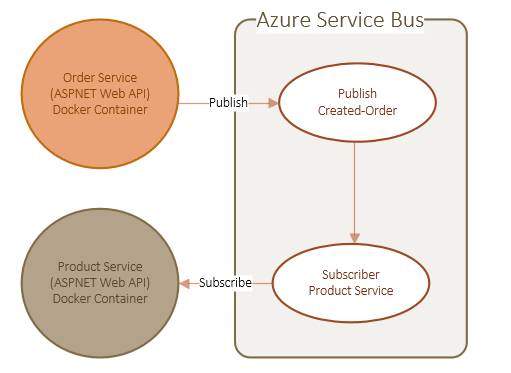
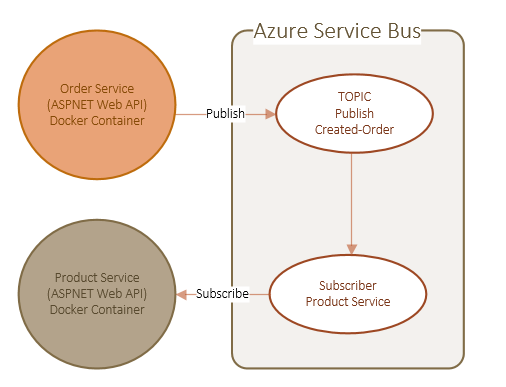
added messaging

diff --git a/docs/_site/index.html b/docs/_site/index.html
@@ -343,9 +343,21 @@
 
 <h3 id="communication-between-api-services">Communication Between API Services</h3>
 
-<p>API’s can communicate with each other using http or messaging. The demo application uses Azure Sevice Bus messaging services for communication.</p>
+<p>APIs can communicate with each other using REST or asynchronous messaging. The demo application uses Azure Service Bus messaging services for communication. The following example will illustrate the concept of messaging.</p>
 
-<p><img src="https://raw.githubusercontent.com/rcl-microservices-aks/documentation/master/images/intro/api-auth.PNG" alt="placeholder" title="Image" /></p>
+<p>The Product Service tracks the inventory of items with an ‘inStock’ field in the database. Each time an order is created by the Order Service, the Product Service will reduce the ‘inStock’ value of the product by one. So if there are 1000 pencils in stock, and an order is created for a pencil, the ‘inStock’ value for pencils is reduced to 999.</p>
+
+<p>The Order Service can send a request directly to the Product Service via REST to update the ‘inStock’ value of the product in the database. However, this will create a dependency between the Order Service and the Product Service. A better approach would be to use a broker messaging service to accomplish this communication.</p>
+
+<p>We can use ‘Topics’ in Azure Service Bus to create a Publish/Subscribe messaging service. The Order Service will publish a message to a Topic called ‘Created-Order’ each time an order is created. The message will be a simple JSON string containing the product id and other fields related to the order. Now, any service can subscribe to this Topic. The Product Service will subscribe to the Topic, and each time an order is created, the JSON string message will be transmitted to the Product Service asynchronously. The Product Service will then use the product id field in the JSON to find the product that was ordered and then reduce the ‘inStock’ value of the product by one.</p>
+
+<p>You will observe that the Order Service does not know anything about the Product Service as it is only aware of Service Bus. Similarly, the Product Service is only aware of the Service Bus and not the Order Service. In this way, both services are completely de-coupled.</p>
+
+<p>This approach also makes our application extensible. Say we now have a Shipping Service. The shipping service can subscribe to the ‘Created-Order’ Topic, and each time a new order is created it can send out an instruction to have the order shipped to a customer address.</p>
+
+<p>Messaging also adds reliability to the application. For instance, if the Product Service is down, the message will remain in the Topic queue until the Product Service is back up again to consume it.</p>
+
+<p><img src="https://raw.githubusercontent.com/rcl-microservices-aks/documentation/master/images/intro/messaging.PNG" alt="placeholder" title="Image" /></p>
 
 
 </div>

diff --git a/docs/index.md b/docs/index.md
@@ -82,7 +82,19 @@ Identity Service also provides security access to the Web APIs. The steps for se
 
 ### Communication Between API Services
 
-API's can communicate with each other using http or messaging. The demo application uses Azure Sevice Bus messaging services for communication.
+APIs can communicate with each other using REST or asynchronous messaging. The demo application uses Azure Service Bus messaging services for communication. The following example will illustrate the concept of messaging. 
 
-![placeholder](https://raw.githubusercontent.com/rcl-microservices-aks/documentation/master/images/intro/api-auth.PNG "Image")
+The Product Service tracks the inventory of items with an 'inStock' field in the database. Each time an order is created by the Order Service, the Product Service will reduce the 'inStock' value of the product by one. So if there are 1000 pencils in stock, and an order is created for a pencil, the 'inStock' value for pencils is reduced to 999.
+
+The Order Service can send a request directly to the Product Service via REST to update the 'inStock' value of the product in the database. However, this will create a dependency between the Order Service and the Product Service. A better approach would be to use a broker messaging service to accomplish this communication.
+
+We can use 'Topics' in Azure Service Bus to create a Publish/Subscribe messaging service. The Order Service will publish a message to a Topic called 'Created-Order' each time an order is created. The message will be a simple JSON string containing the product id and other fields related to the order. Now, any service can subscribe to this Topic. The Product Service will subscribe to the Topic, and each time an order is created, the JSON string message will be transmitted to the Product Service asynchronously. The Product Service will then use the product id field in the JSON to find the product that was ordered and then reduce the 'inStock' value of the product by one.
+
+You will observe that the Order Service does not know anything about the Product Service as it is only aware of Service Bus. Similarly, the Product Service is only aware of the Service Bus and not the Order Service. In this way, both services are completely de-coupled.
+
+This approach also makes our application extensible. Say we now have a Shipping Service. The shipping service can subscribe to the 'Created-Order' Topic, and each time a new order is created it can send out an instruction to have the order shipped to a customer address.
+
+Messaging also adds reliability to the application. For instance, if the Product Service is down, the message will remain in the Topic queue until the Product Service is back up again to consume it.
+
+![placeholder](https://raw.githubusercontent.com/rcl-microservices-aks/documentation/master/images/intro/messaging.PNG "Image")
 
